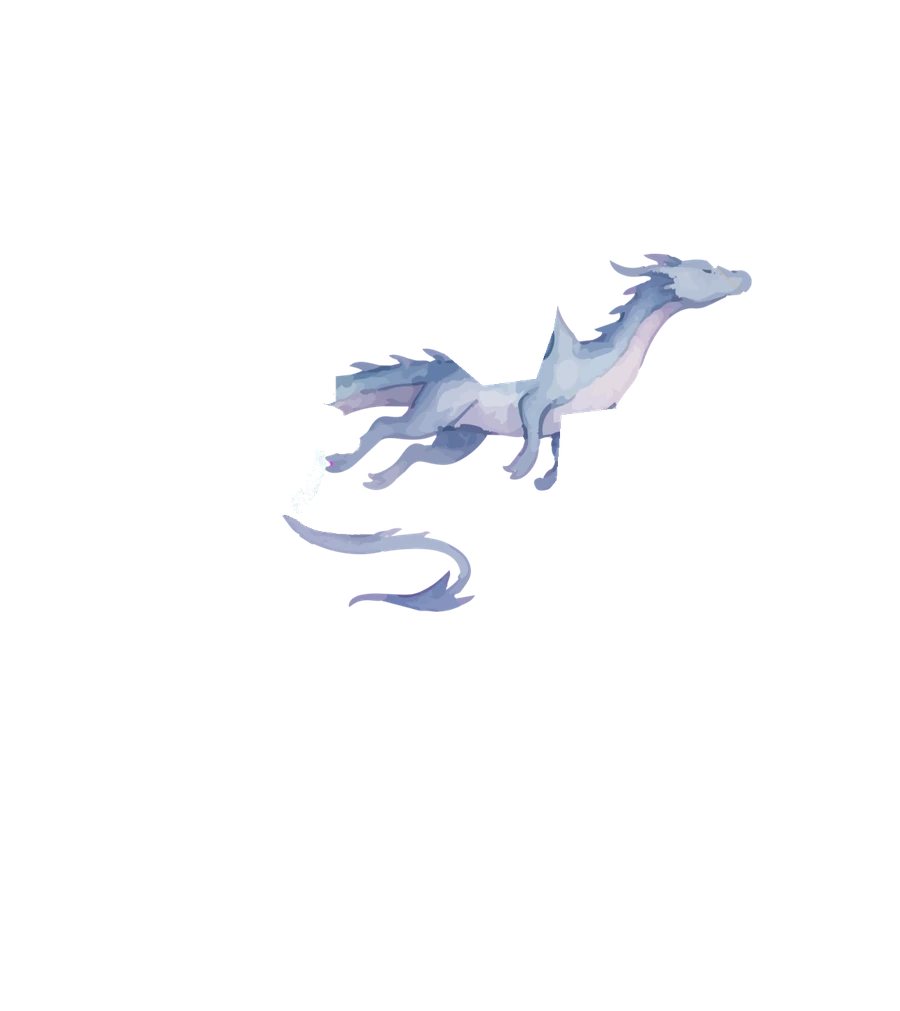
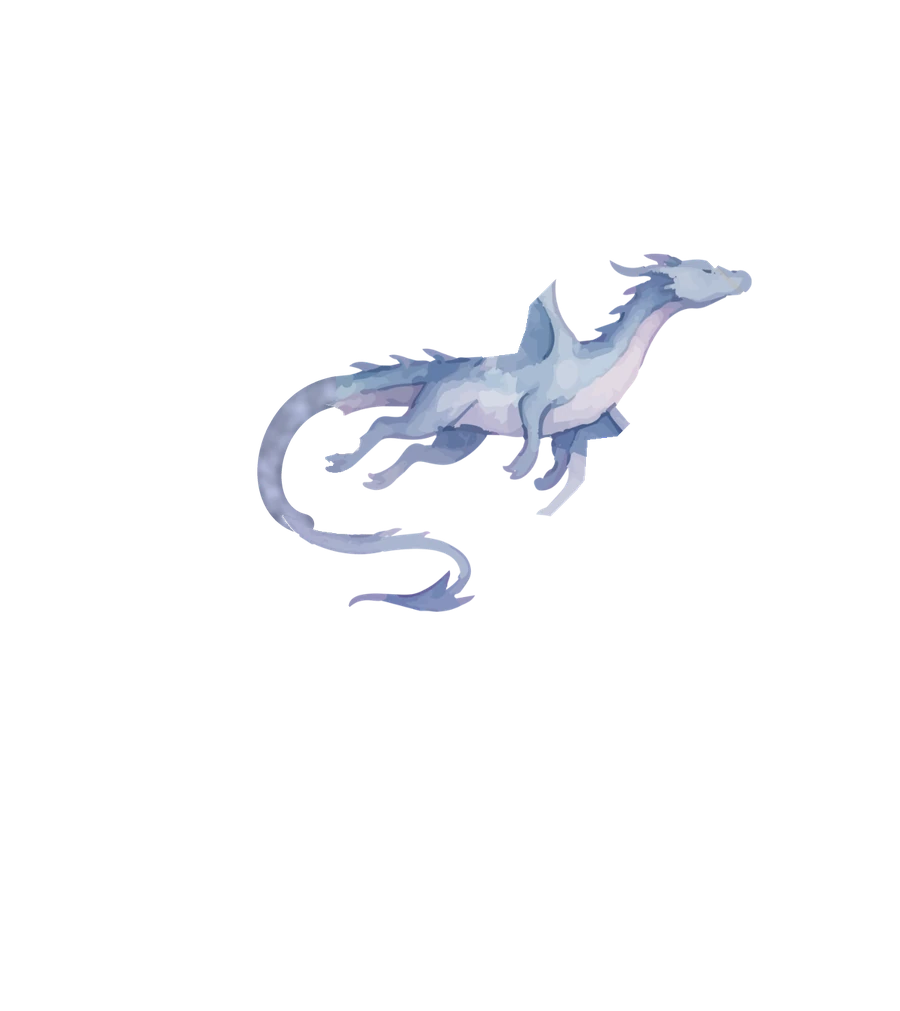
Holding page: complete the tail and close the wing seams
Tail: the hidden stretch behind the bouquet is drawn in, and the bouquet now
sits in front of the dragon, so the tail is whole while the dragon flies in.
Wings: the body layer carries a copy of each wing root, so no gap opens at the
shoulder when the wings flap. Stray rose specks removed from the dragon layer.

Claude-Session: https://claude.ai/code/session_01QDvQYbyM9RLnHqFKHsrTea

diff --git a/index.html b/index.html
@@ -46,8 +46,8 @@
     0%   { transform: translate(0, 0) rotate(0deg); }
     100% { transform: translate(-1.2%, -2.4%) rotate(-1.5deg); }
   }
-  @keyframes flap-back  { 0% { transform: rotate(9deg); }  100% { transform: rotate(-7deg); } }
-  @keyframes flap-front { 0% { transform: rotate(-9deg); } 100% { transform: rotate(7deg); } }
+  @keyframes flap-back  { 0% { transform: rotate(8deg); }  100% { transform: rotate(-7deg); } }
+  @keyframes flap-front { 0% { transform: rotate(-8deg); } 100% { transform: rotate(7deg); } }
 
   .sparkle { position: absolute; width: 8px; height: 8px; border-radius: 50%; background: #E3C27A; box-shadow: 0 0 10px 3px rgba(227, 194, 122, .55); opacity: 0; animation: twinkle 3.2s ease-in-out infinite; }
   .s1 { left: 74%; top: 12%; animation-delay: 1.6s; }
@@ -77,6 +77,7 @@
       <img src="/dragon-body.webp" alt="" width="900" height="1011">
       <img class="wing-front" src="/wing-front.webp" alt="" width="900" height="1011">
     </div>
+    <img src="/flowers-front.webp" alt="" width="900" height="1011">
     <img src="/frame-front.webp" alt="" width="900" height="1011">
     <span class="sparkle s1" aria-hidden="true"></span>
     <span class="sparkle s2" aria-hidden="true"></span>
